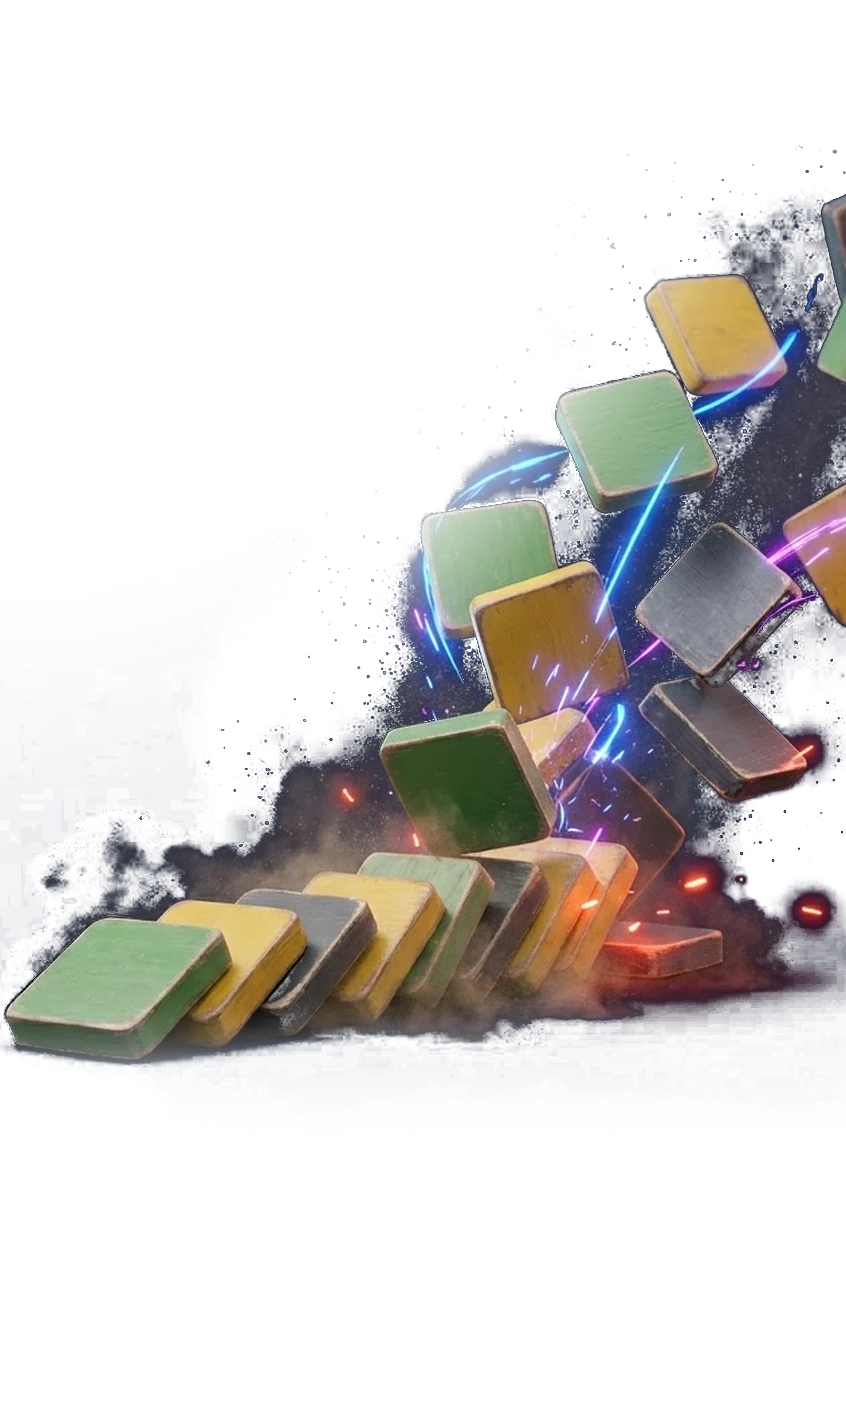
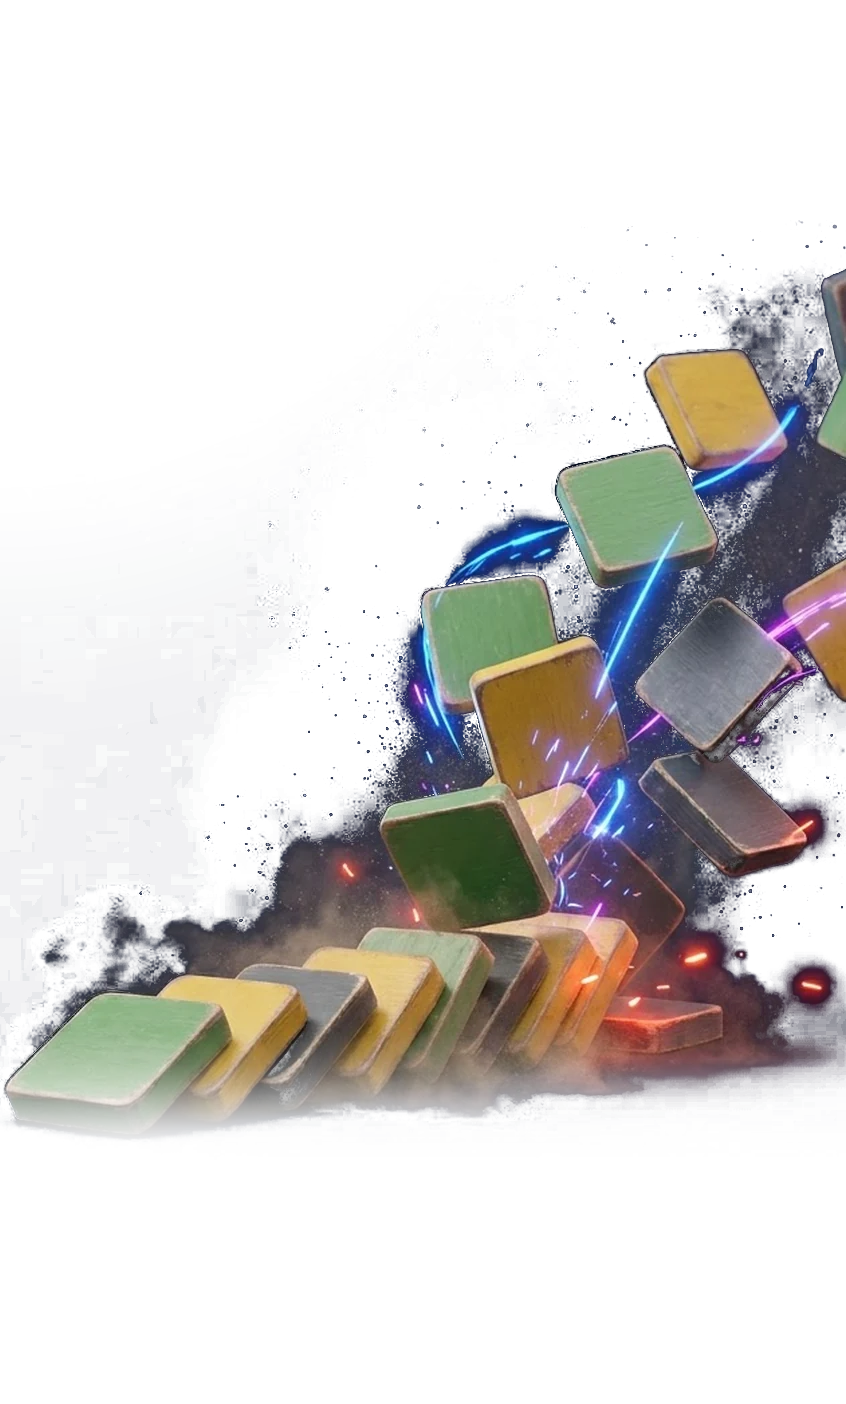
Games page: back to the lifted layout, planets 25% smaller, arc lower
Claude-Session: https://claude.ai/code/session_01M1zZESrXzYjoRQjWUzRNCF

diff --git a/src/features/games/Ring.tsx b/src/features/games/Ring.tsx
@@ -6,7 +6,7 @@ import { GAMES } from '@/data/games';
 import { DESIGN_H, u } from '@/theme/scale';
 import type { Mode } from '@/theme/tokens';
 
-import { BODY_TOP, DOTS_Y, RING_CX, RING_CY, RING_R, W } from './fit';
+import { ARC_DROP, BODY_TOP, DOTS_TOP, RING_CX, RING_CY, RING_R, W } from './fit';
 import { wrapOff } from './Planet';
 
 const RING = {
@@ -56,6 +56,6 @@ export function Dots({ pos, onPick }: { pos: SharedValue<number>; onPick: (j: nu
 
 const s = StyleSheet.create({
   ring: { position: 'absolute', left: 0 },
-  dots: { position: 'absolute', left: 0, right: 0, top: u(DOTS_Y), height: u(4), flexDirection: 'row', justifyContent: 'center', gap: u(4) },
+  dots: { position: 'absolute', left: 0, right: 0, top: u(DOTS_TOP + ARC_DROP - BODY_TOP), height: u(4), flexDirection: 'row', justifyContent: 'center', gap: u(4) },
   dot: { height: u(4), borderRadius: u(4) },
 });

diff --git a/src/features/games/fit.ts b/src/features/games/fit.ts
@@ -42,8 +42,6 @@ export function fitArt(key: string): ArtFit {
 // Offsets -5..5 so 10 games wrap; only -3..3 are visible, exactly as with 8.
 export const SLOT_OFF = [-5, -4, -3, -2, -1, 0, 1, 2, 3, 4, 5];
 export const SLOT_ANGLE = [-44, -35, -26, -17, -8, 0, 8, 17, 26, 35, 44];
-// 2026-10-18: planets 60% smaller (Yazan)
-export const SLOT_SIZE = [9, 9, 9, 12, 14, 19, 14, 12, 9, 9, 9];
-/** Body y of the swipe dots: just above the selected planet (Yazan 2026-10-18). */
-export const DOTS_Y = RING_CY - RING_R - 2 - SLOT_SIZE[5] / 2 - 12;
+// 2026-10-18: planets 25% smaller (Yazan)
+export const SLOT_SIZE = [17, 17, 17, 22, 26, 36, 26, 22, 17, 17, 17];
 export const SLOT_OPACITY = [0, 0, 0.75, 1, 1, 1, 1, 1, 0.75, 0, 0];

diff --git a/src/features/games/GamePage.tsx b/src/features/games/GamePage.tsx
@@ -56,7 +56,7 @@ export function GamePage({ game, j, pos, active }: { game: Game; j: number; pos:
 }
 
 const s = StyleSheet.create({
-  info: { position: 'absolute', left: u(16), right: u(16), top: u(59) },
+  info: { position: 'absolute', left: u(16), right: u(16), top: u(22) },
   ttl: { fontFamily: F.display, fontSize: u(32), lineHeight: u(28.8), letterSpacing: u(-0.64) },
   sub: { marginTop: u(8), fontFamily: F.displayItalic, fontSize: u(13), lineHeight: u(17) },
   desc: { marginTop: u(7), marginBottom: u(2), maxWidth: u(190), fontFamily: F.body, fontSize: u(11), lineHeight: u(15.95) },

diff --git a/scripts/bake-game-art-full.py b/scripts/bake-game-art-full.py
@@ -18,15 +18,8 @@ ROOT = os.path.dirname(os.path.dirname(os.path.abspath(__file__)))
 W, SH, TOP, END = 282, 615, 72, 540  # design screen, body top, art end (src/features/games/fit.ts)
 SCALE = 3
 NUDGE = 0.7  # 0 = keep the left edge, 1 = keep the right edge, when the picture is wider than the screen
-# Each scene moves up by its own amount so its upper left meets the text corner the way Case Files does (Yazan 2026-10-18).
-# CORNER: picture row (of 1376) where the scene's upper-left part begins; Case Files is the reference.
-CORNER = {
-    'case-files-unsolved': 340, 'the-riddler': 450, 'the-conqueror': 450, 'the-wheels-of-chaos': 480,
-    'the-diagnostic-pursuit': 500, 'the-silent-artist': 520, 'trust-me-not': 560,
-    'nova-medicordle': 600, 'nova-crossword': 600, 'the-streak-master': 620,
-}
-TEXT_DROP = 37  # the title block sits this much lower than when the curve was tuned
-CLEAR = 490  # screen y where the art is fully gone, a clear gap above the swipe dots and planets
+UP = 30  # the scene sits this much higher than the picture's own place (2026-10-18: lifted, more overlap)
+CLEAR = 466  # screen y where the art is fully gone, a clear gap above the planets on the arc
 
 # Scene band in picture px (of 1376): fade in over [a, b] at the top and out over [c, d] at the bottom.
 # a/d sit on (or just inside) any hard band edge, so no straight line survives.
@@ -55,8 +48,7 @@ for k, (a, b, c, d) in BAND.items():
     pw, ph = src.size
     s = max(W / pw, SH / ph)  # design px per picture px
     ox = (W - pw * s) * NUDGE
-    up = min(55, -7 + 0.7 * (CORNER[k] - 340) * s)
-    oy = (SH - ph * s) / 2 - up
+    oy = (SH - ph * s) / 2 - UP
     ow, oh = W * SCALE, (END - TOP) * SCALE
     X, Y = np.meshgrid((np.arange(ow) + 0.5) / SCALE, TOP + (np.arange(oh) + 0.5) / SCALE)
     # sample the picture: resize the whole thing, then crop the body window
@@ -66,7 +58,7 @@ for k, (a, b, c, d) in BAND.items():
     rgb = np.asarray(canvas).astype(np.float64) / 255
     py = (Y - oy) / s  # picture row under each pixel
     band = smooth(py, a + 6, b) * (1 - smooth(py, c, d - 6))
-    curve = smooth(np.hypot(X / W, (Y - TEXT_DROP) / (0.52 * SH)), 0.7, 1.0)  # clears the title corner, scene tucks under the text
+    curve = smooth(np.hypot(X / W, Y / (0.52 * SH)), 0.7, 1.0)  # clears the title corner, scene tucks under the text
     nav = 1 - smooth(Y, CLEAR - 56, CLEAR)
     # the picture's own navy sky melts away, so no tinted box is left where it meets the app navy
     sky = np.median(np.asarray(src)[:20].reshape(-1, 3), axis=0) / 255
